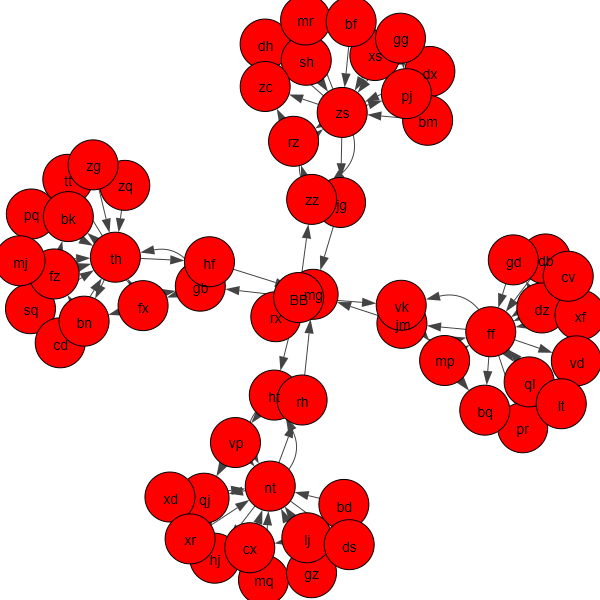
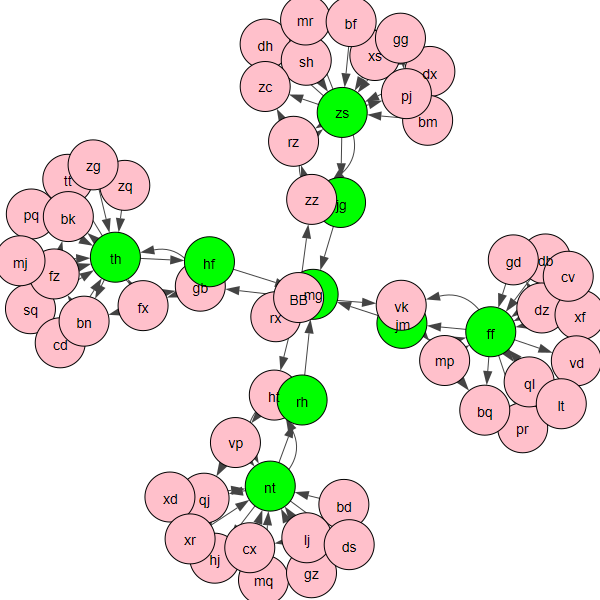
Day 20 finally working

diff --git a/Day20/day20.py b/Day20/day20.py
@@ -22,6 +22,7 @@ class Module:
         self.lows = 0
         self.highs = 0
         self.flips = 0
+        self.on = 0
         # pprint(vars(self))
 
     
@@ -44,6 +45,9 @@ class Module:
         return self.dests
     def getType(self):
         return self.moduleType
+    def reset(self):
+        self.on = 0
+        self.output = 0
 
 class FlipFlop(Module):
     def __init__(self, init_string):
@@ -108,7 +112,12 @@ class Circuit:
                 if m2 and m2.moduleType == '&':
                     self.modules[d].setInput(m.getName(), 0)
         self.moduleCount = len(self.modules)
-        self.activity = dict(zip(self.modules.keys(), [0 for i in range(self.moduleCount)] ))
+        self.period = dict(zip(self.modules.keys(), [0 for i in range(self.moduleCount)] ))
+    
+    def reset(self):
+        for m in self.modules.values():
+            self.cycles = 0
+            m.reset()
 
     def sendPulse(self, source, dest, value):
         # print(source, dest, value)
@@ -123,18 +132,24 @@ class Circuit:
             for d in dests or []:
                 self.queue.append((module.getName(), d, module.getOutput())) 
 
-    def run(self, cycles):
+    def run(self, cycles, mod = 'rx'):
         for i in range(cycles):
-            self.sendPulse('button', 'broadcaster', 0)
+            self.sendPulse('button', 'BB', 0)
+            self.cycles += 1
             while self.queue:
                 (source, dest, value) = self.queue.popleft()
                 self.sendPulse(source, dest, value)
-                self.activity[dest] += 1
                 
-        self.cycles += 1
 
     def getPeriod(self, module):
-        
+        for i in range(5000):
+            self.sendPulse('button', 'BB', 0)
+            self.cycles += 1
+            while self.queue:
+                (source, dest, value) = self.queue.popleft()
+                self.sendPulse(source, dest, value)
+                if dest == module and value == 0:
+                    return self.cycles
     
     def printModules(self):
         for t in ['&', '%']:
@@ -151,6 +166,7 @@ class Circuit:
         fig, ax = plt.subplots()
         layout = g.layout("kk")
         g.vs["label"] = g.vs["name"] 
+        g.vs["color"] = ["green" if self.modules[m].getType() == '&' else 'pink' for m in g.vs["name"]]
         ig.plot(g, layout=layout, margin=20, target=ax, vertex_size=50)
         ig.plot(g, layout=layout, margin=20, target="./Day20/graph.png", vertex_size=50)
         plt.show()
@@ -159,8 +175,17 @@ def main():
     data = open("./Day20/day20.txt").read()  # read the file
     # data = open("./Day20/day20Sample.txt").read()  # read the file
     circuit = Circuit(data)
-    circuit.drawGraph()
+    # circuit.drawGraph() #from this you can see the major nodes are hf jg jm rh
     circuit.run(1000)
     print(circuit.lowCount * circuit.highCount)
+    circuit = Circuit(data)
+    hf = circuit.getPeriod('hf')
+    circuit = Circuit(data)
+    jg = circuit.getPeriod('jg')
+    circuit = Circuit(data)
+    rh = circuit.getPeriod('rh')
+    circuit = Circuit(data)
+    jm = circuit.getPeriod('jm')
+    print("periods: ", hf, jg, jm, rh, "product: ", hf * jg * jm * rh)
 
 main()
